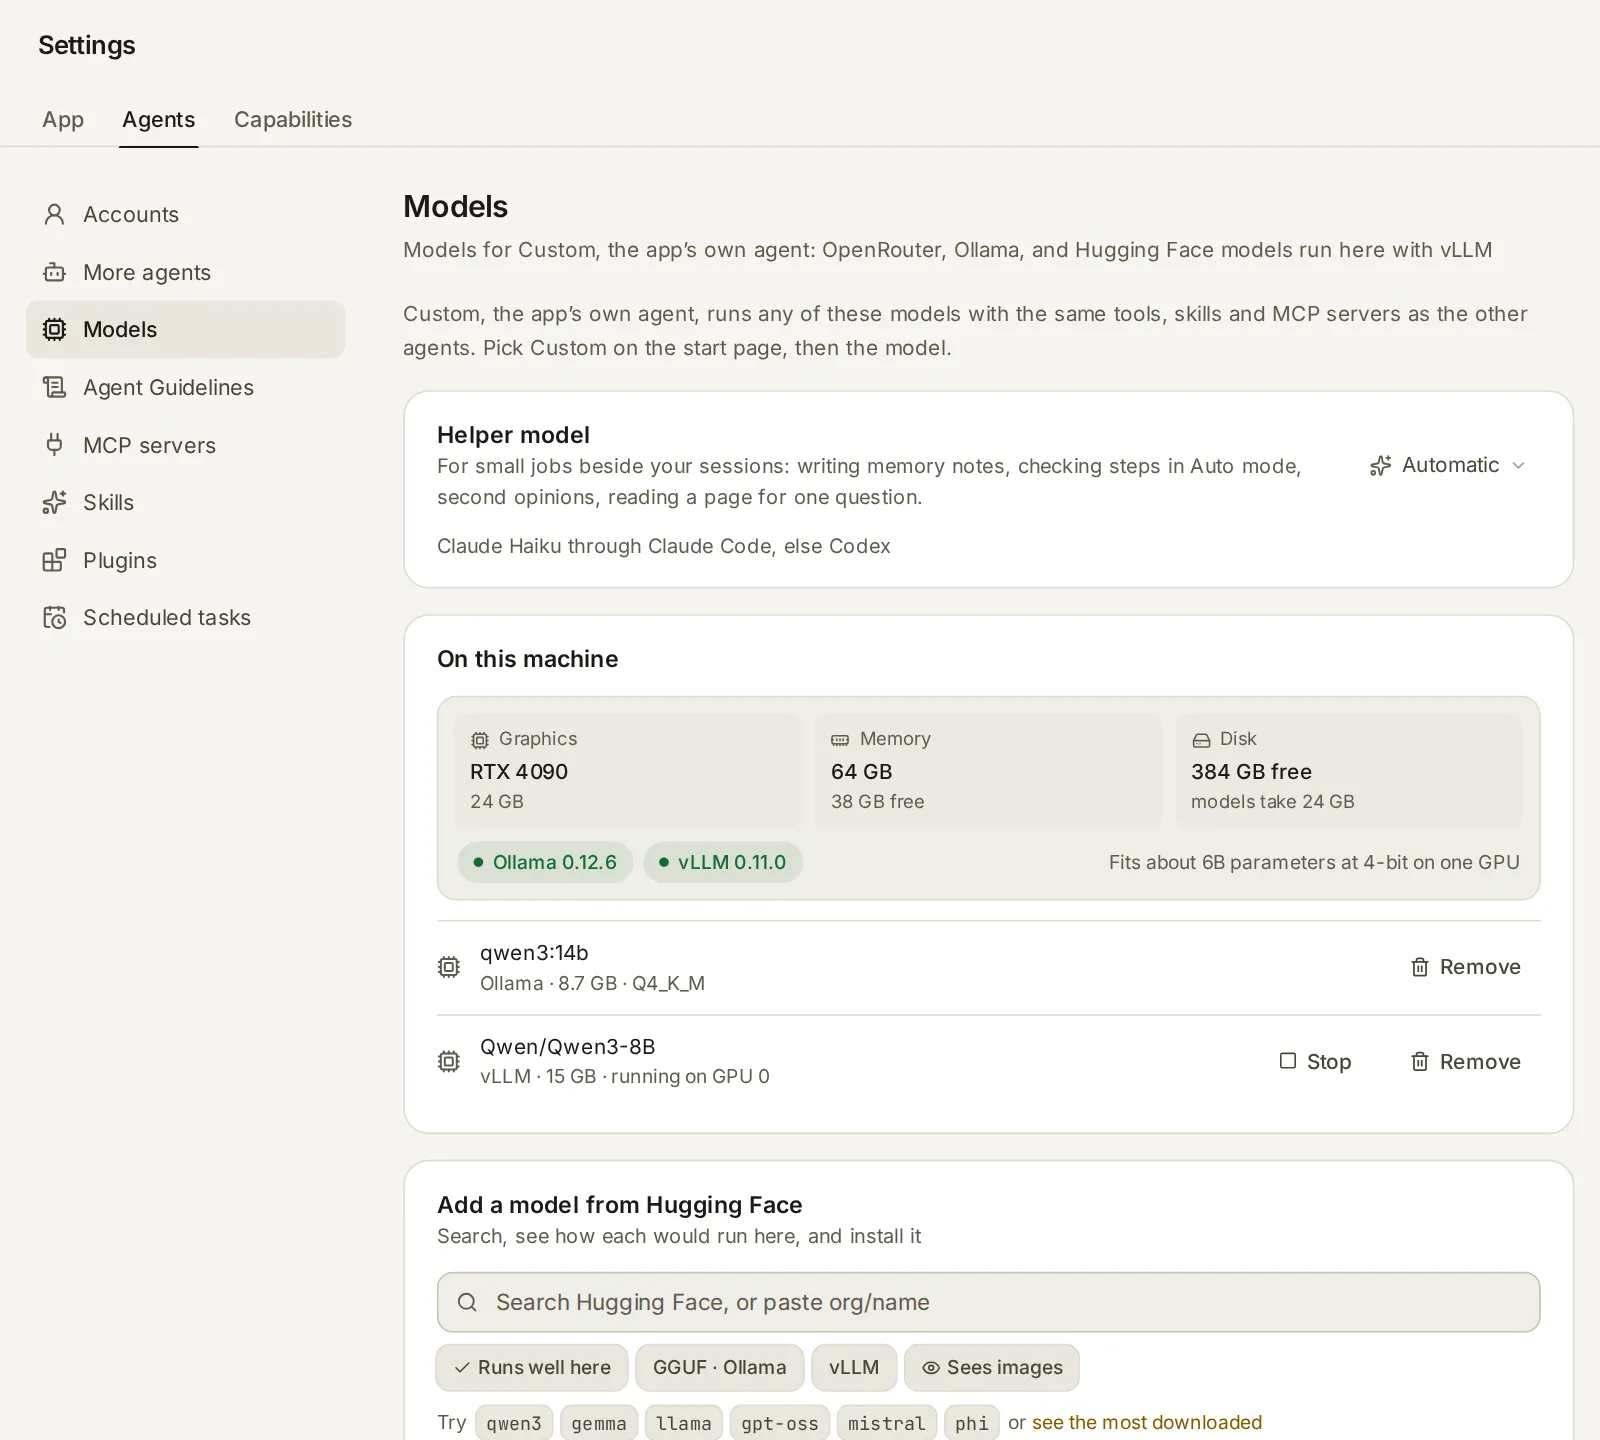
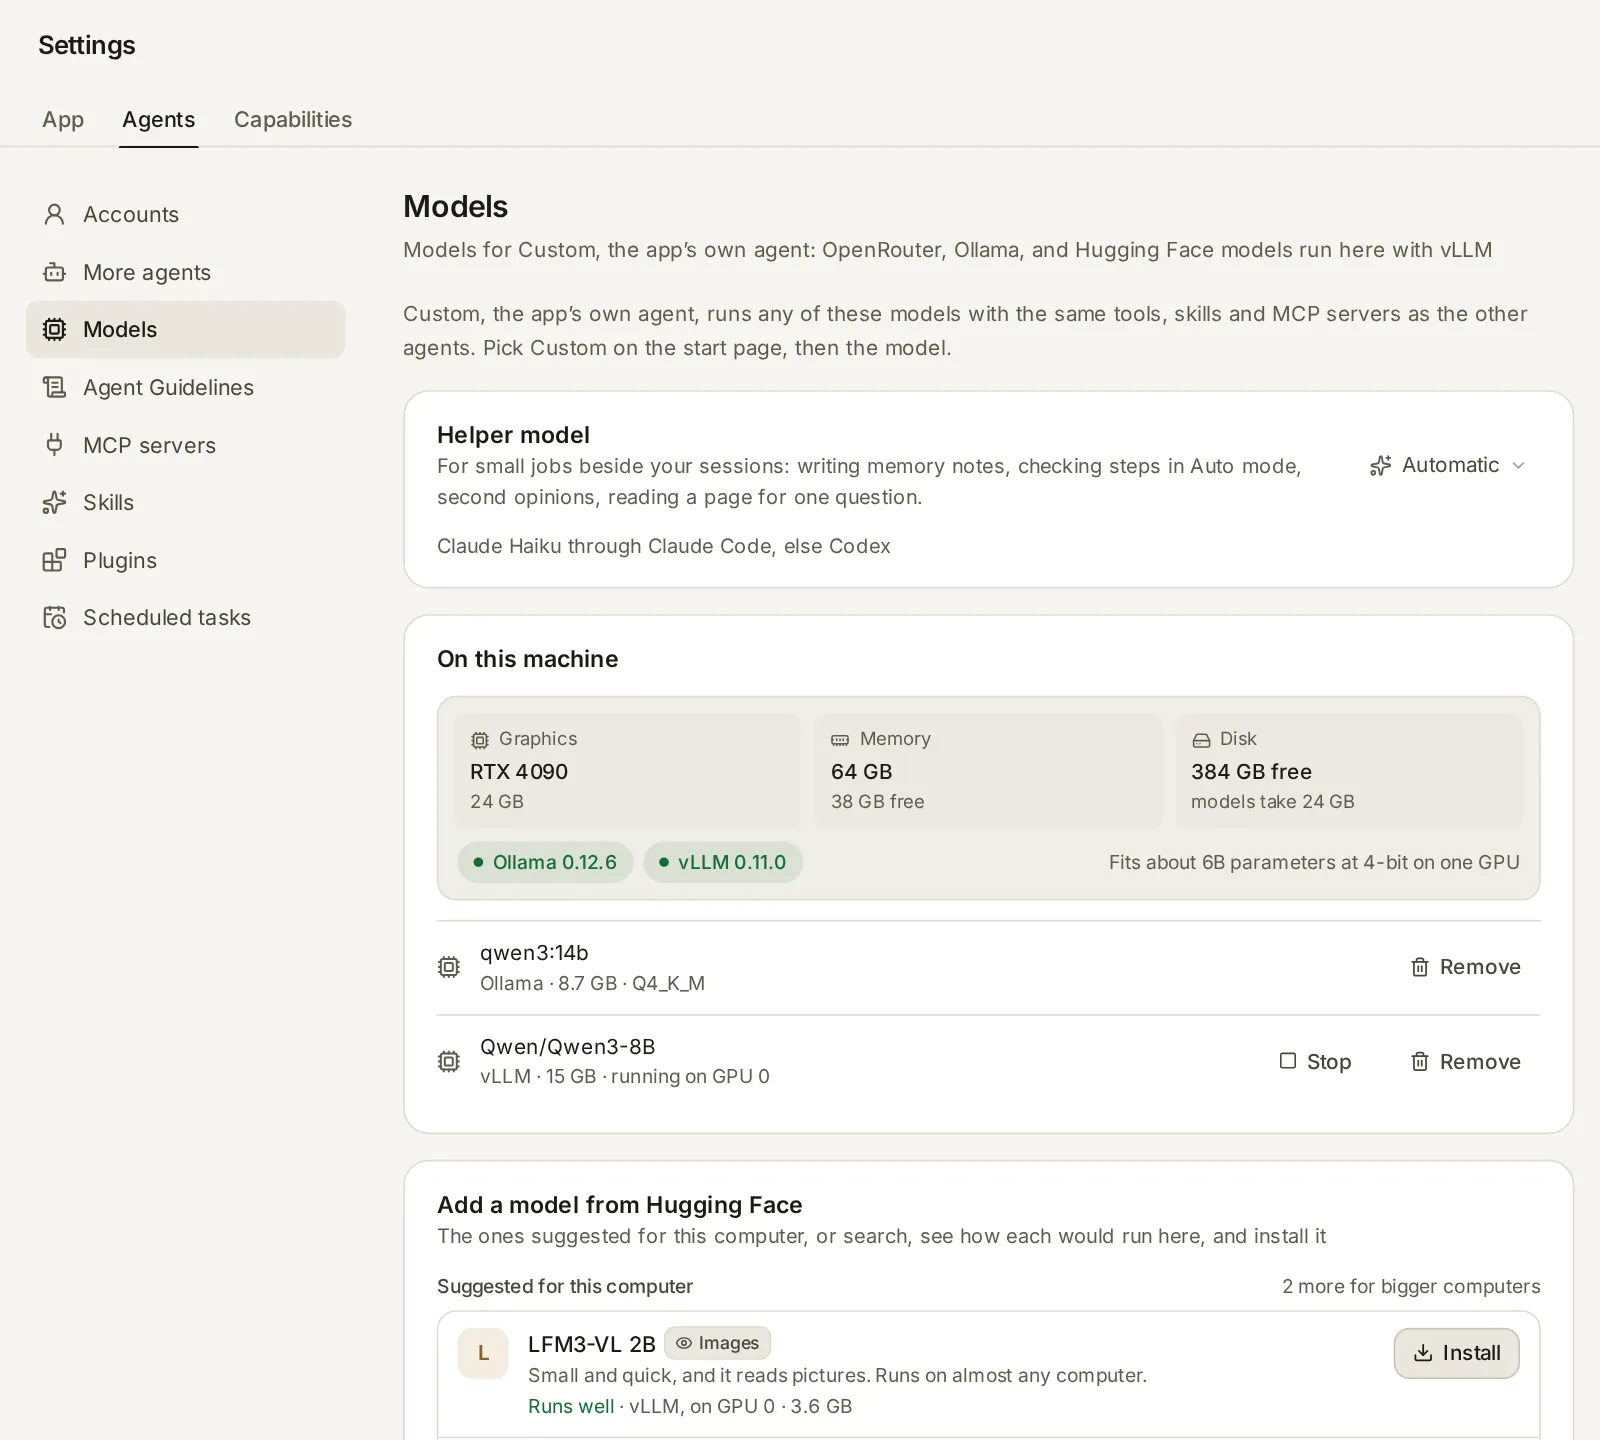
Guide: the Models picture shows the models suggested for this computer
The guide's demo answers GET /api/models/picks with suggestions for its one-card desktop, so the picture matches it.

Changed region(s): [[0.25, 0.8438, 0.9688, 1.0]]

diff --git a/scripts/guide-shots/README.md b/scripts/guide-shots/README.md
@@ -41,7 +41,7 @@ the real app's).
   memory notes, scheduled tasks at times well away from now, pages, the Library's images and videos, apps, learned
   skills). The pictures and clips are in `media/`: made once through OpenRouter, kept small. What only a running agent or a real account has
   is answered to the page instead (`overrides`): two sessions waiting on a card, Claude Code's model list, the
-  plans' usage, the inbox and Settings → Models.
+  plans' usage, the inbox, and Settings → Models with the models it suggests.
 - `shots.mjs` lists the shots: the page, what to open on it (a menu, a folded group of steps) and the part to
   keep. Desktop shots are 1280×800 CSS pixels (taller where a page needs it) at twice the resolution, cut to
   that part and at most 1600 pixels wide; `devices` is a 390×844 phone at 780 pixels wide.
